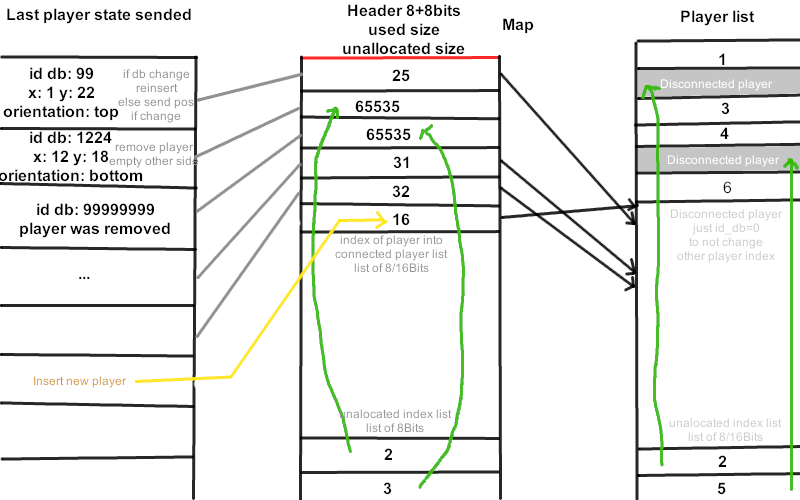
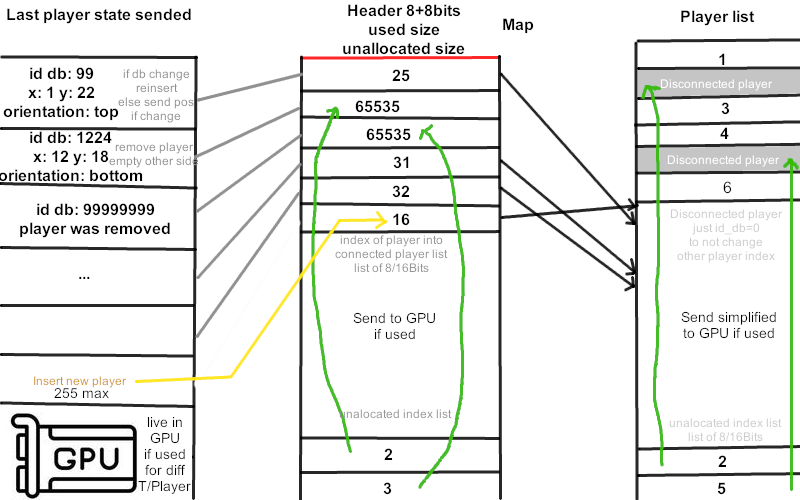
[Change] Continue on general structure changes (server,shared lib,docs)

diff --git a/server/base/MapManagement/Map_server_MapVisibility_Simple_StoreOnSender.hpp b/server/base/MapManagement/Map_server_MapVisibility_Simple_StoreOnSender.hpp
@@ -53,65 +53,9 @@ public:
      */
     //size set via MapServer::mapListSize, NO holes, map valid and exists, NOT map_list.size() to never load the path
     static std::vector<Map_server_MapVisibility_Simple_StoreOnSender> flat_map_list;//std::vector<CommonMap *> will request 2x more memory fetch, one to get the pointer, one to get the data. With the actual pointer, just get the data, need one list for server and multiple list for client
-    /* list start at (max player*map id)
-     * size is 8Bits if max connected player < 255 else 16Bit
-     * only used in individual player diff
-     * that's resolve visible player to connected player
-     * 
-     * DIFF
-       * if ordened no problem
-       * else NEED: add new player at end, remove imply:
-         * move all the rest
-         * or invalid the entry
-           * and browsing invalid entry
-           * or have status invalid entry too with index corelation
-     * diff profile is more diff than insert/remove
-     * diff CHOOSEN via vector:
-       * insert O(n), can be resolved into O(1) if removed index list
-       * remove O(n), can be resolved into O(1) if save into Client internal map index
-       * diff O(n) should be fast, large hole is rare
-       * while(index) if map player[index].id_db==local player[index].id_db send move, else send insert/remove
-       * memory: map count*max visible player*8Bits/16Bits index of connected player
-       * memory: static array: NO memory allocation, lot of not used but allocated memory, can be dynamic
-     * diff BAD via unordered_map:
-       * insert O(log(n))
-       * remove O(log(n))
-       * diff O(2n*log(n))
-     * diff via map (imply index is id_db), see doc/algo/visibility/constant-time-player-visibility.png:
-       * insert O(2log(n))
-       * remove O(2log(n))
-       * diff O(n) doble iterator to scan each (imply status player is map too to keep same order)
-       * if found then send pos else send insert/remove
-       * memory: id_db 32Bits map+8Bits/16Bits index of connected player*player on map
-       * memory: only with dynamic memory allocation
-     * diff linked list, see doc/algo/visibility/linked-list-player-visibility.png (std::forward_list can't be used, need more pointer):
-       * insert O(1)
-       * remove O(1)
-       * diff O(n) doble iterator to scan each
-         * random acess is not predictible then generate cache miss, the need of new player at end for the diff algo randomize the data
-         * or reinsert at first hole + index corelantion with player status
-       * if found then send pos else send insert/remove
-       * memory: dynamic and O(n) players, can use index 8 or 8/16Bits and not pointer, but due to index to the next entry it duplicate the memory size (divide by /2 the data density)
-       * memory: only with dynamic memory allocation
-     * move BAD: have local copy: imply resolve each time to change position/orientation at EACH move + function call (and may abstraction resolv)
-     * move CHOOSEN: just keep index connected to access only at move when need
-     * store CHOOSEN index connected player imply read each player attribute
-     * store id_db imply read each player attribute only for insert + store resolution id_db to Object
-     */
-    #if CATCHCHALLENGER_DYNAMIC_MAP_LIST
-    std::vector<SIMPLIFIED_PLAYER_INDEX_FOR_CONNECTED> clients;//65535 = empty slot
-    SIMPLIFIED_PLAYER_ID_FOR_MAP clients_count;
-    std::vector<SIMPLIFIED_PLAYER_ID_FOR_MAP> removed_index;//garbage collector, reuse slot and only grow memory, never remove vector index and have to move whole back data
-    #else
-    #error todo the static part
-    #endif
 
     //mostly less remove than don't remove
     bool show;
-
-    /* drop, scan at each move is more problematic than scan whole map list each 100ms
-     * static uint16_t * map_to_update;
-    static uint16_t map_to_update_size;*/
 };
 }
 

diff --git a/server/qt/QtClientWithMap.hpp b/server/qt/QtClientWithMap.hpp
@@ -8,11 +8,57 @@ class QtClientWithMap : public QObject, public CatchChallenger::QtClient, public
 {
     Q_OBJECT
 public:
-    /* static allocation, with holes, see doc/algo/visibility/constant-time-player-visibility.png
-     * can add carbage collector to not search free holes
-     IMPLEMENT INTO HIGHTER CLASS, like vector<Epoll> */
-    static std::vector<QtClientWithMap> clients;
-    static std::vector<SIMPLIFIED_PLAYER_INDEX_FOR_CONNECTED> clients_removed_index;
+     /* list start at (max player*map id)
+     * size is 8Bits if max connected player < 255 else 16Bit
+     * only used in individual player diff
+     * that's resolve visible player to connected player
+     *
+     * DIFF
+       * if ordened no problem
+       * else NEED: add new player at end, remove imply:
+         * move all the rest
+         * or invalid the entry
+           * and browsing invalid entry
+           * or have status invalid entry too with index corelation
+     * diff profile is more diff than insert/remove
+     * diff CHOOSEN via vector:
+       * insert O(n), can be resolved into O(1) if removed index list
+       * remove O(n), can be resolved into O(1) if save into Client internal map index
+       * diff O(n) should be fast, large hole is rare
+       * while(index) if map player[index].id_db==local player[index].id_db send move, else send insert/remove
+       * memory: map count*max visible player*8Bits/16Bits index of connected player
+       * memory: static array: NO memory allocation, lot of not used but allocated memory, can be dynamic
+     * diff BAD via unordered_map:
+       * insert O(log(n))
+       * remove O(log(n))
+       * diff O(2n*log(n))
+     * diff via map (imply index is id_db), see doc/algo/visibility/constant-time-player-visibility.png:
+       * insert O(2log(n))
+       * remove O(2log(n))
+       * diff O(n) doble iterator to scan each (imply status player is map too to keep same order)
+       * if found then send pos else send insert/remove
+       * memory: id_db 32Bits map+8Bits/16Bits index of connected player*player on map
+       * memory: only with dynamic memory allocation
+     * diff linked list, see doc/algo/visibility/linked-list-player-visibility.png (std::forward_list can't be used, need more pointer):
+       * insert O(1)
+       * remove O(1)
+       * diff O(n) doble iterator to scan each
+         * random acess is not predictible then generate cache miss, the need of new player at end for the diff algo randomize the data
+         * or reinsert at first hole + index corelantion with player status
+       * if found then send pos else send insert/remove
+       * memory: dynamic and O(n) players, can use index 8 or 8/16Bits and not pointer, but due to index to the next entry it duplicate the memory size (divide by /2 the data density)
+       * memory: only with dynamic memory allocation
+     * move BAD: have local copy: imply resolve each time to change position/orientation at EACH move + function call (and may abstraction resolv)
+     * move CHOOSEN: just keep index connected to access only at move when need
+     * store CHOOSEN index connected player imply read each player attribute
+     * store id_db imply read each player attribute only for insert + store resolution id_db to Object
+     */
+    #if CATCHCHALLENGER_DYNAMIC_MAP_LIST
+    static std::vector<QtClientWithMap> clients;//65535 = empty slot
+    static std::vector<SIMPLIFIED_PLAYER_ID_FOR_MAP> clients_removed_index;//garbage collector, reuse slot and only grow memory, never remove vector index and have to move whole back data
+    #else
+    #error todo the static part
+    #endif
 public:
     QtMapVisibilityAlgorithm_Simple_StoreOnSender(QIODevice *qtSocket);
     void closeSocket() override;

diff --git a/server/epoll/ClientWithMapEpoll.hpp b/server/epoll/ClientWithMapEpoll.hpp
@@ -7,11 +7,57 @@
 class ClientWithMapEpoll : public CatchChallenger::EpollClient, public CatchChallenger::ClientWithMap
 {
 public:
-        /* static allocation, with holes, see doc/algo/visibility/constant-time-player-visibility.png
-     * can add carbage collector to not search free holes
-     IMPLEMENT INTO HIGHTER CLASS, like vector<Epoll> */
-    static std::vector<ClientWithMapEpoll> clients;
-    static std::vector<SIMPLIFIED_PLAYER_INDEX_FOR_CONNECTED> clients_removed_index;
+     /* list start at (max player*map id)
+     * size is 8Bits if max connected player < 255 else 16Bit
+     * only used in individual player diff
+     * that's resolve visible player to connected player
+     *
+     * DIFF
+       * if ordened no problem
+       * else NEED: add new player at end, remove imply:
+         * move all the rest
+         * or invalid the entry
+           * and browsing invalid entry
+           * or have status invalid entry too with index corelation
+     * diff profile is more diff than insert/remove
+     * diff CHOOSEN via vector:
+       * insert O(n), can be resolved into O(1) if removed index list
+       * remove O(n), can be resolved into O(1) if save into Client internal map index
+       * diff O(n) should be fast, large hole is rare
+       * while(index) if map player[index].id_db==local player[index].id_db send move, else send insert/remove
+       * memory: map count*max visible player*8Bits/16Bits index of connected player
+       * memory: static array: NO memory allocation, lot of not used but allocated memory, can be dynamic
+     * diff BAD via unordered_map:
+       * insert O(log(n))
+       * remove O(log(n))
+       * diff O(2n*log(n))
+     * diff via map (imply index is id_db), see doc/algo/visibility/constant-time-player-visibility.png:
+       * insert O(2log(n))
+       * remove O(2log(n))
+       * diff O(n) doble iterator to scan each (imply status player is map too to keep same order)
+       * if found then send pos else send insert/remove
+       * memory: id_db 32Bits map+8Bits/16Bits index of connected player*player on map
+       * memory: only with dynamic memory allocation
+     * diff linked list, see doc/algo/visibility/linked-list-player-visibility.png (std::forward_list can't be used, need more pointer):
+       * insert O(1)
+       * remove O(1)
+       * diff O(n) doble iterator to scan each
+         * random acess is not predictible then generate cache miss, the need of new player at end for the diff algo randomize the data
+         * or reinsert at first hole + index corelantion with player status
+       * if found then send pos else send insert/remove
+       * memory: dynamic and O(n) players, can use index 8 or 8/16Bits and not pointer, but due to index to the next entry it duplicate the memory size (divide by /2 the data density)
+       * memory: only with dynamic memory allocation
+     * move BAD: have local copy: imply resolve each time to change position/orientation at EACH move + function call (and may abstraction resolv)
+     * move CHOOSEN: just keep index connected to access only at move when need
+     * store CHOOSEN index connected player imply read each player attribute
+     * store id_db imply read each player attribute only for insert + store resolution id_db to Object
+     */
+    #if CATCHCHALLENGER_DYNAMIC_MAP_LIST
+    static std::vector<ClientWithMapEpoll> clients;//65535 = empty slot
+    static std::vector<SIMPLIFIED_PLAYER_ID_FOR_MAP> clients_removed_index;//garbage collector, reuse slot and only grow memory, never remove vector index and have to move whole back data
+    #else
+    #error todo the static part
+    #endif
 public:
     ClientWithMapEpoll(const int &infd);
     void closeSocket() override;

diff --git a/server/base/Client.hpp b/server/base/Client.hpp
@@ -98,7 +98,7 @@ public:
     #ifndef CATCHCHALLENGER_SERVER_DATAPACK_ONLYBYMIRROR
     static uint64_t datapack_list_cache_timestamp_base,datapack_list_cache_timestamp_main,datapack_list_cache_timestamp_sub;
     #endif
-    static std::unordered_map<std::string,SIMPLIFIED_PLAYER_INDEX_FOR_CONNECTED> playerByPseudo;
+    static std::unordered_map<std::string,SIMPLIFIED_PLAYER_INDEX_FOR_CONNECTED> playerByPseudo;//see ClientWithMapEpoll.hpp or QtClientWithMap
     static std::unordered_map<uint32_t,Clan *> clanList;
 
     static bool timeRangeEventNew;
@@ -213,7 +213,7 @@ protected:
         uint32_t index;
     };
     uint8_t pingInProgress;
-    SIMPLIFIED_PLAYER_ID_FOR_MAP index_on_map;
+    SIMPLIFIED_PLAYER_INDEX_FOR_CONNECTED index_on_map;//can have 1000 connected player on a map where visibility is 10
     SIMPLIFIED_PLAYER_INDEX_FOR_CONNECTED index_connected_player;
 private:
     //-------------------
@@ -303,7 +303,7 @@ private:
     static std::regex fileNameStartStringRegex;
 
     //info linked
-    static std::unordered_map<uint32_t,SIMPLIFIED_PLAYER_INDEX_FOR_CONNECTED> playerById_db;
+    static std::unordered_map<uint32_t,SIMPLIFIED_PLAYER_INDEX_FOR_CONNECTED> playerById_db;//whwrew used?
     static std::unordered_map<ZONE_TYPE,std::vector<SIMPLIFIED_PLAYER_INDEX_FOR_CONNECTED> > captureCity;
     static std::unordered_map<ZONE_TYPE,CaptureCityValidated> captureCityValidatedList;
     static std::unordered_map<uint32_t,uint64_t> characterCreationDateList;
@@ -786,6 +786,14 @@ protected:
     virtual void teleportValidatedTo(const CATCHCHALLENGER_TYPE_MAPID &mapIndex,const /*COORD_TYPE*/uint8_t &x,const /*COORD_TYPE*/uint8_t &y,const Orientation &orientation) override;
     virtual bool moveThePlayer(const uint8_t &previousMovedUnit,const Direction &direction) override;
     virtual void extraStop() = 0;
+
+/* access to glocal/map client list
+see ClientWithMapEpoll.hpp or QtClientWithMap */
+protected:
+    #error to write
+    virtual SIMPLIFIED_PLAYER_INDEX_FOR_CONNECTED global_clients_list_size() const = 0;
+    virtual bool global_clients_list_isValid(const SIMPLIFIED_PLAYER_INDEX_FOR_CONNECTED &index) const = 0;
+    virtual Client &global_clients_list_at(const SIMPLIFIED_PLAYER_INDEX_FOR_CONNECTED &index) = 0;//abort if index is not valid
 };
 }
 

diff --git a/server/base/MapServer.hpp b/server/base/MapServer.hpp
@@ -41,8 +41,24 @@ public:
     void check6B(const char * const data,const unsigned int size);
     #endif
 
-    //at last to improve the other variable cache
-    std::vector<Client *> clientsForLocalBroadcast;//frequent remove/insert due to map change
+private:
+    /* clients list on map
+    can be 1000 player but only 10 visible
+    16Bits if max connected player is >=255 else 8Bits
+    client know their map index, then O(1) remove */
+    std::vector<SIMPLIFIED_PLAYER_INDEX_FOR_CONNECTED> map_clients_id;
+    std::vector<SIMPLIFIED_PLAYER_INDEX_FOR_CONNECTED> map_removed_index;
+
+public:
+#error to write
+    //return index into map list
+    SIMPLIFIED_PLAYER_INDEX_FOR_CONNECTED insertOnMap(const SIMPLIFIED_PLAYER_INDEX_FOR_CONNECTED &index_global);
+    void removeOnMap(const SIMPLIFIED_PLAYER_INDEX_FOR_CONNECTED &index_global);
+
+    SIMPLIFIED_PLAYER_INDEX_FOR_CONNECTED map_clients_list_size() const;
+    bool map_clients_list_isValid(const SIMPLIFIED_PLAYER_INDEX_FOR_CONNECTED &index) const;
+    const SIMPLIFIED_PLAYER_INDEX_FOR_CONNECTED &map_clients_list_at(const SIMPLIFIED_PLAYER_INDEX_FOR_CONNECTED &index) const;//abort if index is not valid
+public:
     std::unordered_map<std::pair<uint8_t,uint8_t>,Orientation,pairhash> rescue;//less than 5% map have rescue point, maybe other structure like static std::unordered_map<std::unordered_map<std::pair<uint8_t,uint8_t> is better
     std::unordered_set<std::pair<uint8_t,uint8_t>,pairhash> heal;//less than 5% map have rescue point, maybe other structure like static std::unordered_map<std::unordered_set<std::pair<uint8_t,uint8_t> is better
     std::unordered_set<std::pair<uint8_t,uint8_t>,pairhash> zoneCapture;//ZONE_TYPE removed, will use the zone of current map (prevent error and resolv zone to id), 5% of the map

diff --git a/server/base/Client.cpp b/server/base/Client.cpp
@@ -104,8 +104,8 @@ void Client::setToDefault()
     stat=ClientStat::Free;
     lastdaillygift=0;
     pingInProgress=0;
-    index_on_map=255;
-    index_connected_player=65535;
+    index_on_map=SIMPLIFIED_PLAYER_INDEX_FOR_CONNECTED_MAX;
+    index_connected_player=SIMPLIFIED_PLAYER_INDEX_FOR_CONNECTED_MAX;
     account_id_db=0;
     character_id_db=0;
     #ifndef EPOLLCATCHCHALLENGERSERVER
@@ -149,7 +149,7 @@ void Client::setToDefault()
     last_sended_connected_players=0;
     stopIt=false;
     profileIndex=0;
-    otherPlayerBattle=65535;
+    otherPlayerBattle=SIMPLIFIED_PLAYER_INDEX_FOR_CONNECTED_MAX;
     battleIsValidated=false;
     mCurrentSkillId=0;
     mHaveCurrentSkill=false;
@@ -159,7 +159,7 @@ void Client::setToDefault()
     #ifndef EPOLLCATCHCHALLENGERSERVER
     isInCityCapture=false;
     #endif
-    otherPlayerTrade=65535;
+    otherPlayerTrade=SIMPLIFIED_PLAYER_INDEX_FOR_CONNECTED_MAX;
     tradeIsValidated=false;
     clan=NULL;
     #ifdef EPOLLCATCHCHALLENGERSERVER

diff --git a/general/base/GeneralType.hpp b/general/base/GeneralType.hpp
@@ -18,11 +18,18 @@
 #define CATCHCHALLENGER_TYPE_BOTID uint8_t
 #define COORD_TYPE uint8_t
 #define SIMPLIFIED_PLAYER_ID_FOR_MAP uint8_t
-#define SIMPLIFIED_PLAYER_INDEX_FOR_CONNECTED uint16_t
 #define CLAN_ID_TYPE uint32_t
 #define SPEED_TYPE uint8_t
 #define ZONE_TYPE uint8_t
 #define SHOP_TYPE uint8_t
 #define FACTORY_TYPE uint16_t
+
+#ifdef CATCHCHALLENGER_LIMIT_254CONNECTED
+#define SIMPLIFIED_PLAYER_INDEX_FOR_CONNECTED uint8_t
+#define SIMPLIFIED_PLAYER_INDEX_FOR_CONNECTED_MAX 255
+#else
+#define SIMPLIFIED_PLAYER_INDEX_FOR_CONNECTED uint16_t
+#define SIMPLIFIED_PLAYER_INDEX_FOR_CONNECTED_MAX 65535
+#endif
 
 #endif // GENERALTYPE_H

diff --git a/server/base/MapManagement/ClientWithMap.hpp b/server/base/MapManagement/ClientWithMap.hpp
@@ -20,7 +20,7 @@ public:
 
     /* static allocation, with holes, see doc/algo/visibility/constant-time-player-visibility.png
      * can add carbage collector to not search free holes
-     IMPLEMENT INTO HIGHTER CLASS, like vector<Epoll> */
+     IMPLEMENT INTO HIGHTER CLASS, like vector<Epoll> ClientWithMapEpoll.hpp or QtClientWithMap */
 protected:
     // WARNING, need maintain same index include if one player is removed, then old index is an hole ClientStat::stat==Free
     virtual void clients_insert() = 0;

diff --git a/server/base/MapServer.cpp b/server/base/MapServer.cpp
@@ -14,7 +14,9 @@ MapServer::MapServer() :
     localChatDropTotalCache(0),
     localChatDropNewValue(0),
     id_db(0),
-    zone(65535)
+    zone(65535),
+    map_clients_id(nullptr),
+    map_removed_index(nullptr)
 {
     border.bottom.x_offset=0;
     border.bottom.mapIndex=65535;
